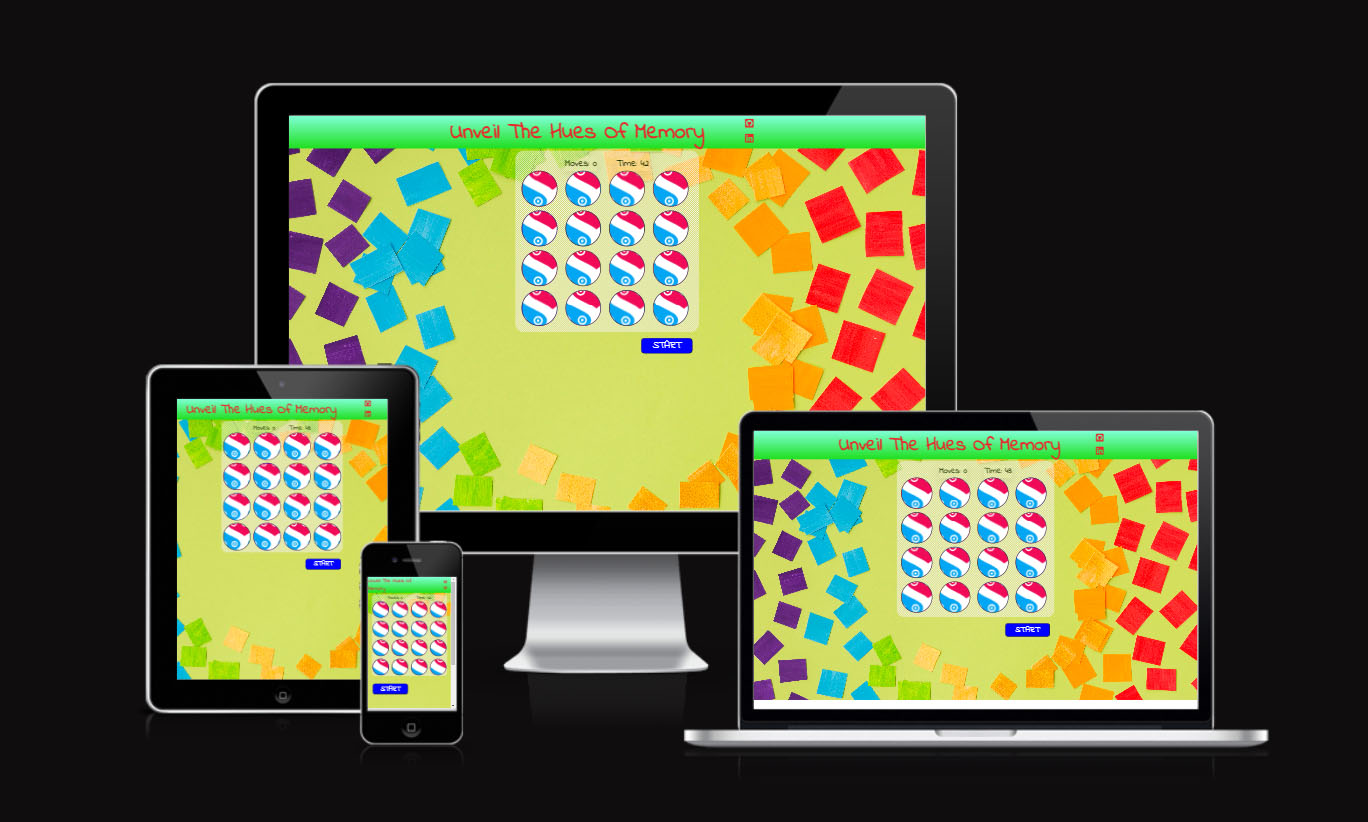
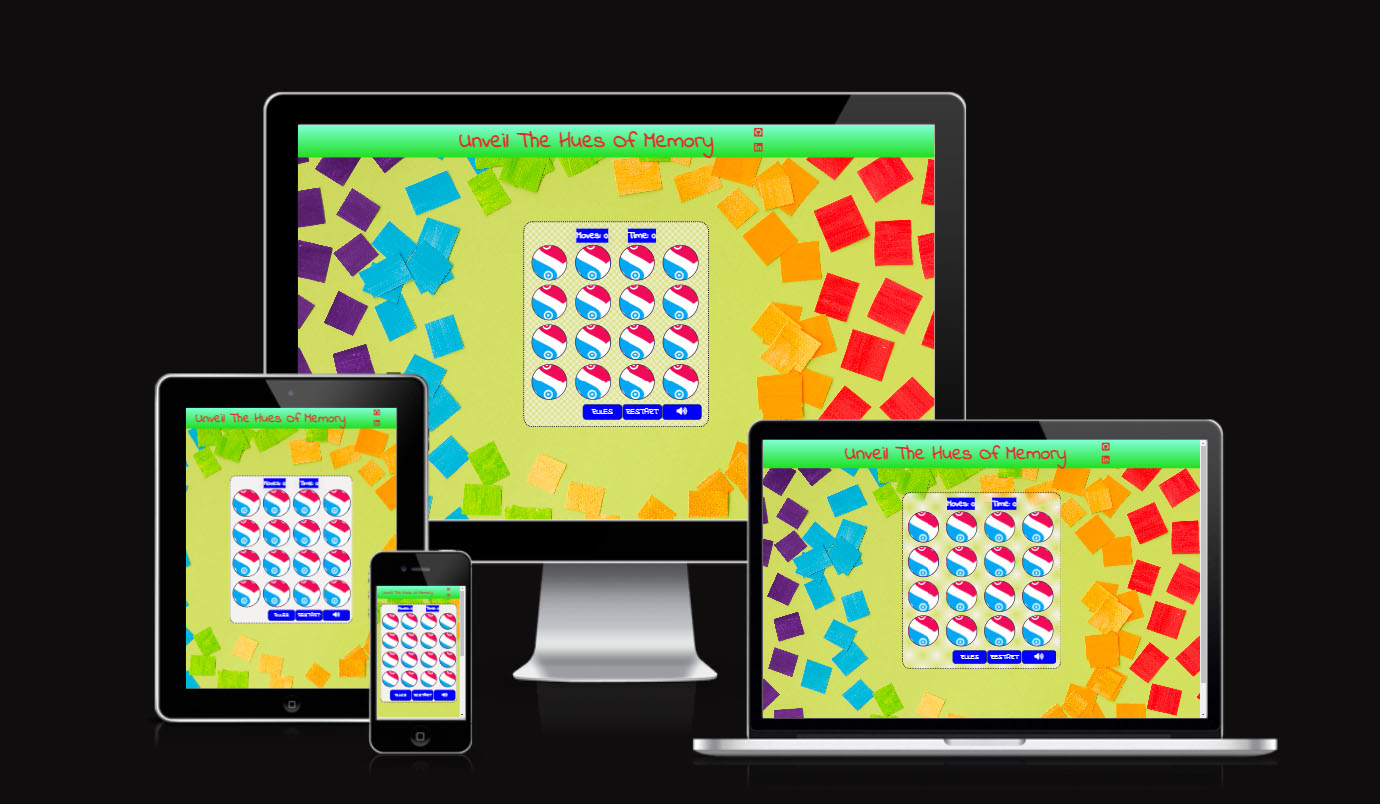
added new pictures

diff --git a/assets/css/style.css b/assets/css/style.css
@@ -69,7 +69,7 @@ h1 {
 .stats-container {
     display: flex;
     flex-direction: row;
-    gap: 50px;
+    gap: 75px;
     justify-content: center;
     align-items: center;
 }
